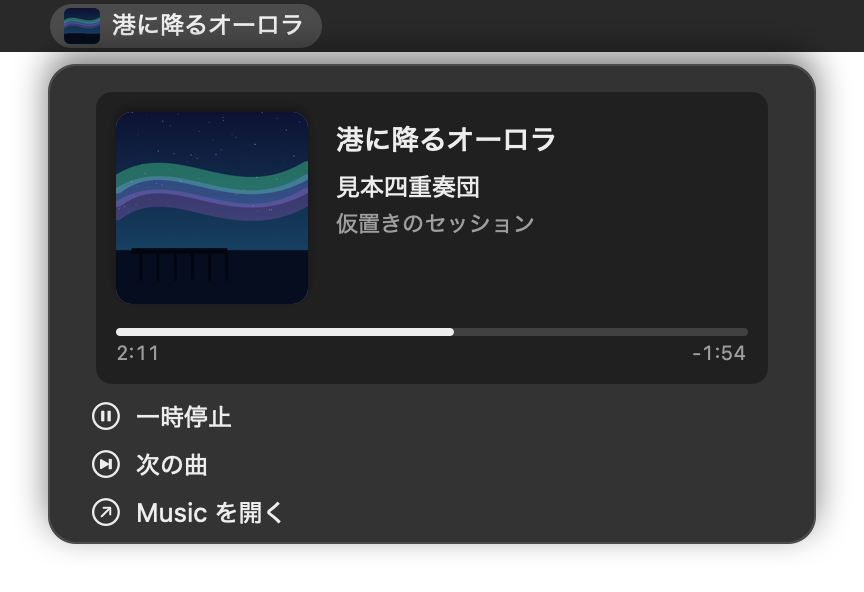
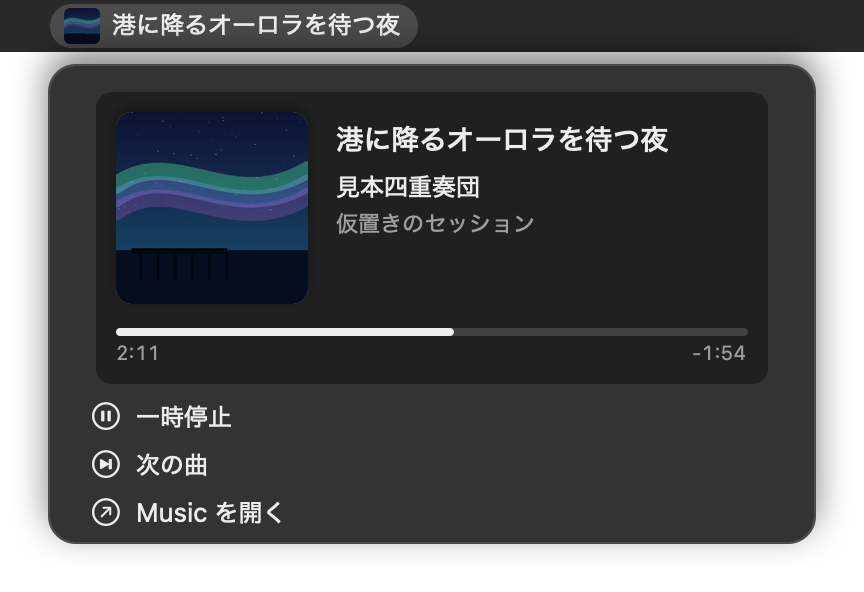
README: 通常表示と縮小表示を並べた画像を載せる
sysmon・weather・nowplaying のメニューバーの項目を、通常表示と縮小表示で
並べた画像 (docs/images/*/menubar-density-*.png) を samples/render.sh で描く。
組むのは samples/density.swift。

weather は今の予報で描くと降水確率によっては違いが出ないので、決まった値で
メニューバーの項目だけを描く --render-menubar を足す。nowplaying の日本語の
サンプルの曲名は、100pt で切られるよう長くする。

Changed region(s): [[0.3438, 0.0, 0.5, 0.0912], [0.625, 0.2128, 0.7812, 0.2736]]

diff --git a/samples/density.swift b/samples/density.swift
@@ -1,0 +1,73 @@
+// README 用に、メニューバーの項目の通常表示と縮小表示を並べた絵を組む。
+//   swift samples/density.swift <light|dark> <出力の PNG> <通常表示の見出し> <縮小表示の見出し> \
+//       <プラグインの名前> <通常表示の PNG> <縮小表示の PNG> [...]
+// プラグインごとに 1 行で、左に名前、その右に通常表示と縮小表示の項目を、それぞれ
+// メニューバーの帯に載せて並べる。帯の外は透明にする (README の地の色に任せる)。
+import AppKit
+
+let a = CommandLine.arguments
+guard a.count >= 8, (a.count - 5) % 3 == 0 else {
+    FileHandle.standardError.write("usage: density.swift <light|dark> <出力> <見出し> <見出し> <名前> <PNG> <PNG> [...]\n".data(using: .utf8)!)
+    exit(2)
+}
+let dark = a[1] == "dark"
+
+/// 2 倍で描いた PNG と、pt の大きさ
+func load(_ path: String) -> (NSImage, CGSize) {
+    let img = NSImage(contentsOfFile: path)!
+    let px = img.representations[0]
+    return (img, CGSize(width: CGFloat(px.pixelsWide) / 2, height: CGFloat(px.pixelsHigh) / 2))
+}
+let rows: [(name: String, full: (NSImage, CGSize), compact: (NSImage, CGSize))] =
+    stride(from: 5, to: a.count, by: 3).map { (a[$0], load(a[$0 + 1]), load(a[$0 + 2])) }
+
+let fg = dark ? NSColor(white: 0.93, alpha: 1) : NSColor(white: 0.1, alpha: 1)
+let sub = dark ? NSColor(white: 0.65, alpha: 1) : NSColor(white: 0.4, alpha: 1)
+let barBG = dark ? NSColor(white: 0.16, alpha: 1) : NSColor(white: 0.93, alpha: 1)
+let nameFont = NSFont.monospacedSystemFont(ofSize: 12, weight: .regular)
+let headFont = NSFont.systemFont(ofSize: 12, weight: .semibold)
+func text(_ s: String, _ font: NSFont, _ color: NSColor) -> NSAttributedString {
+    NSAttributedString(string: s, attributes: [.font: font, .foregroundColor: color])
+}
+
+let barH: CGFloat = 26, barPad: CGFloat = 10, gap: CGFloat = 16, rowGap: CGFloat = 10, headH: CGFloat = 22
+let names = rows.map { text($0.name, nameFont, sub) }
+let heads = [text(a[3], headFont, fg), text(a[4], headFont, fg)]
+let nameW = ceil(names.map { $0.size().width }.max() ?? 0)
+// 列の幅は、その列でいちばん広い帯 (と見出し) に合わせる
+let fullW = max(ceil(heads[0].size().width), rows.map { $0.full.1.width + barPad * 2 }.max() ?? 0)
+let compactW = max(ceil(heads[1].size().width), rows.map { $0.compact.1.width + barPad * 2 }.max() ?? 0)
+/// 外周の余白 (縁で文字や帯が切れて見えないように)
+let margin: CGFloat = 4
+let width = margin + nameW + gap + fullW + gap + compactW + margin
+let height = margin + headH + CGFloat(rows.count) * barH + CGFloat(rows.count - 1) * rowGap + margin
+let fullX = margin + nameW + gap, compactX = fullX + fullW + gap
+let scale: CGFloat = 2
+
+let rep = NSBitmapImageRep(bitmapDataPlanes: nil, pixelsWide: Int(ceil(width * scale)), pixelsHigh: Int(ceil(height * scale)),
+                           bitsPerSample: 8, samplesPerPixel: 4, hasAlpha: true, isPlanar: false,
+                           colorSpaceName: .deviceRGB, bytesPerRow: 0, bitsPerPixel: 0)!
+rep.size = NSSize(width: width, height: height)
+let cg = NSGraphicsContext(bitmapImageRep: rep)!.cgContext
+cg.translateBy(x: 0, y: height)
+cg.scaleBy(x: 1, y: -1)
+NSGraphicsContext.current = NSGraphicsContext(cgContext: cg, flipped: true)
+
+heads[0].draw(at: CGPoint(x: fullX, y: margin))
+heads[1].draw(at: CGPoint(x: compactX, y: margin))
+for (i, row) in rows.enumerated() {
+    let y = margin + headH + CGFloat(i) * (barH + rowGap)
+    let name = names[i]
+    name.draw(at: CGPoint(x: margin + nameW - name.size().width, y: y + (barH - name.size().height) / 2))
+    for (x, (image, size)) in [(fullX, row.full), (compactX, row.compact)] {
+        // 帯は項目の幅に合わせる (縮んだ分が帯の長さで分かるように)
+        let bar = CGRect(x: x, y: y, width: size.width + barPad * 2, height: barH)
+        cg.setFillColor(barBG.cgColor)
+        cg.addPath(CGPath(roundedRect: bar, cornerWidth: 6, cornerHeight: 6, transform: nil))
+        cg.fillPath()
+        image.draw(in: CGRect(x: x + barPad, y: y + (barH - size.height) / 2, width: size.width, height: size.height),
+                   from: .zero, operation: .sourceOver, fraction: 1, respectFlipped: true, hints: nil)
+    }
+}
+
+try! rep.representation(using: .png, properties: [:])!.write(to: URL(fileURLWithPath: a[2]))

diff --git a/Sources/weather/SampleRender.swift b/Sources/weather/SampleRender.swift
@@ -1,0 +1,36 @@
+import Foundation
+#if canImport(Shared)
+import Shared
+#endif
+
+/// 与えた値でメニューバーの項目を 1 回だけ描く (README の画像用)。
+///
+///     weather --render-menubar <天気のアイコン> <気温> <降水確率> <出力先>
+///
+/// 例: `weather --render-menubar cloud.sun 17° 20 out`。天気のアイコンは WeatherStyle の
+/// アイコンの名前 (sun.max・cloud.sun・cloud.rain・cloud.snow など)、降水確率は % を付けない
+/// 数字。出力先に menubar-light.png・menubar-dark.png を書く。縮めるかは、ほかの描き方と
+/// 同じく MenuBarDensity で決まる (SWIFTBAR_CARDS_COMPACT=on|off で決め打ちする)。
+///
+/// weather のカードは気象庁のデータから組み立てるので、サンプルの値では描かない
+/// (samples/render.sh は --once で今の予報を描く)。メニューバーは、通常表示と縮小表示の
+/// 違いを見せるのに、決まった値で描く必要がある (降水確率が 30% 未満でないと違いが出ない)。
+enum SampleRender {
+    static func run(_ arguments: [String]) -> Never {
+        guard arguments.count == 6 else {
+            exitWithError("usage: weather --render-menubar <天気のアイコン> <気温> <降水確率> <出力先>")
+        }
+        let menuBar = WeatherMenuBar(icon: arguments[2], temperature: arguments[3],
+                                     precipitationChance: arguments[4], warning: nil, stale: false)
+        let directory = URL(fileURLWithPath: arguments[5], isDirectory: true)
+        do {
+            try FileManager.default.createDirectory(at: directory, withIntermediateDirectories: true)
+            for dark in [false, true] {
+                try menuBar.render(dark: dark).write(to: directory, name: "menubar-\(dark ? "dark" : "light")")
+            }
+        } catch {
+            exitWithError("画像を書き出せない: \(error)")
+        }
+        exit(0)
+    }
+}

diff --git a/Sources/weather/main.swift b/Sources/weather/main.swift
@@ -19,6 +19,7 @@
 // - Command.swift           メニューの項目から引数付きで起動されたときの仕事
 // - WeatherPlugin.swift     常駐して、きっかけを受けて取り直し、メニューを差し替える
 // - WeatherMenu.swift       メニューの行
+// - SampleRender.swift      --render-menubar (与えた値でメニューバーの項目を描く)
 // 地点:
 // - Configuration.swift     設定ファイル (地点の並び)
 // - CurrentLocation.swift   現在地 (Locate.app が調べた結果)
@@ -52,8 +53,11 @@ import AppKit
 import Shared
 #endif
 
-let cache = CacheFolder.standard
 let arguments = CommandLine.arguments
+if arguments.count >= 2, arguments[1] == "--render-menubar" {
+    SampleRender.run(arguments)
+}
+let cache = CacheFolder.standard
 Command.runIfRequested(arguments, cache: cache)
 cache.prepare()
 

diff --git a/README.md b/README.md
@@ -62,6 +62,13 @@ In English, `weather` uses JMA's English names for stations and areas. JMA publi
 
 On a MacBook, the menu bar has little room to the right of the notch, and macOS hides the items that do not fit. When that happens, the plugins draw shorter menu bar items (the compact layout) so that as many of them as possible stay visible. The compact layout differs from the full one as follows:
 
+<p align="center">
+  <picture>
+    <source media="(prefers-color-scheme: dark)" srcset="docs/images/en/menubar-density-dark.png">
+    <img src="docs/images/en/menubar-density-light.png" alt="Full and compact layouts" width="501">
+  </picture>
+</p>
+
 | Plugin | Part | Full | Compact |
 |---|---|---|---|
 | `sysmon` | CPU graph | 40pt wide | 24pt wide |
@@ -140,7 +147,7 @@ place=44116
 
 - The Swift programs are laid out as a Swift package (`Package.swift`), so `swift build` and editors work as usual. The plugins themselves compile them with `swiftc` directly, without SwiftPM.
 - `tests/smoke.sh` builds the Swift programs, runs each plugin, and checks that the menu bar line and the card image come out. CI runs it on every push.
-- `samples/render.sh` redraws the images in `docs/images/en/` and `docs/images/ja/`. `nowplaying` and `sysmon` can draw a card once from given values with `--render <JSON> <output directory>`; the values are in `samples/`. `weather` prints its menu once and exits with `--once`.
+- `samples/render.sh` redraws the images in `docs/images/en/` and `docs/images/ja/`. `nowplaying` and `sysmon` can draw a card once from given values with `--render <JSON> <output directory>`; the values are in `samples/`. `weather` prints its menu once and exits with `--once`, and draws only the menu bar item from given values with `--render-menubar <weather icon> <temperature> <chance of rain> <output directory>` (used for the image comparing the full and compact layouts). `SWIFTBAR_CARDS_COMPACT` chooses which layout to draw.
 - Releases follow [Semantic Versioning](https://semver.org/) and are tagged `vX.Y.Z`. All plugins share the version in their `<xbar.version>` header (shown in SwiftBar's plugin settings); `tests/smoke.sh` checks that they match.
 - When fetching or reading something fails, the reason goes to the macOS unified log (SwiftBar does not show the standard error of streamable plugins). The subsystem is `dev.delphinus.swiftbar-cards` and the category is the plugin name (`weather`, `sysmon`, `nowplaying`, `locate`, `menubar`). View it with `/usr/bin/log show --last 1h --predicate 'subsystem == "dev.delphinus.swiftbar-cards"'` (use the full path in zsh, where `log` is a builtin).
 - `scripts/update-telops.sh` regenerates `data/jma-telops.json`, the table of weather codes (English name, Japanese name, and representative weather), from the table embedded in the JMA forecast page. The weather icons follow the representative weather in this table (clear, cloudy, rain, or snow).
